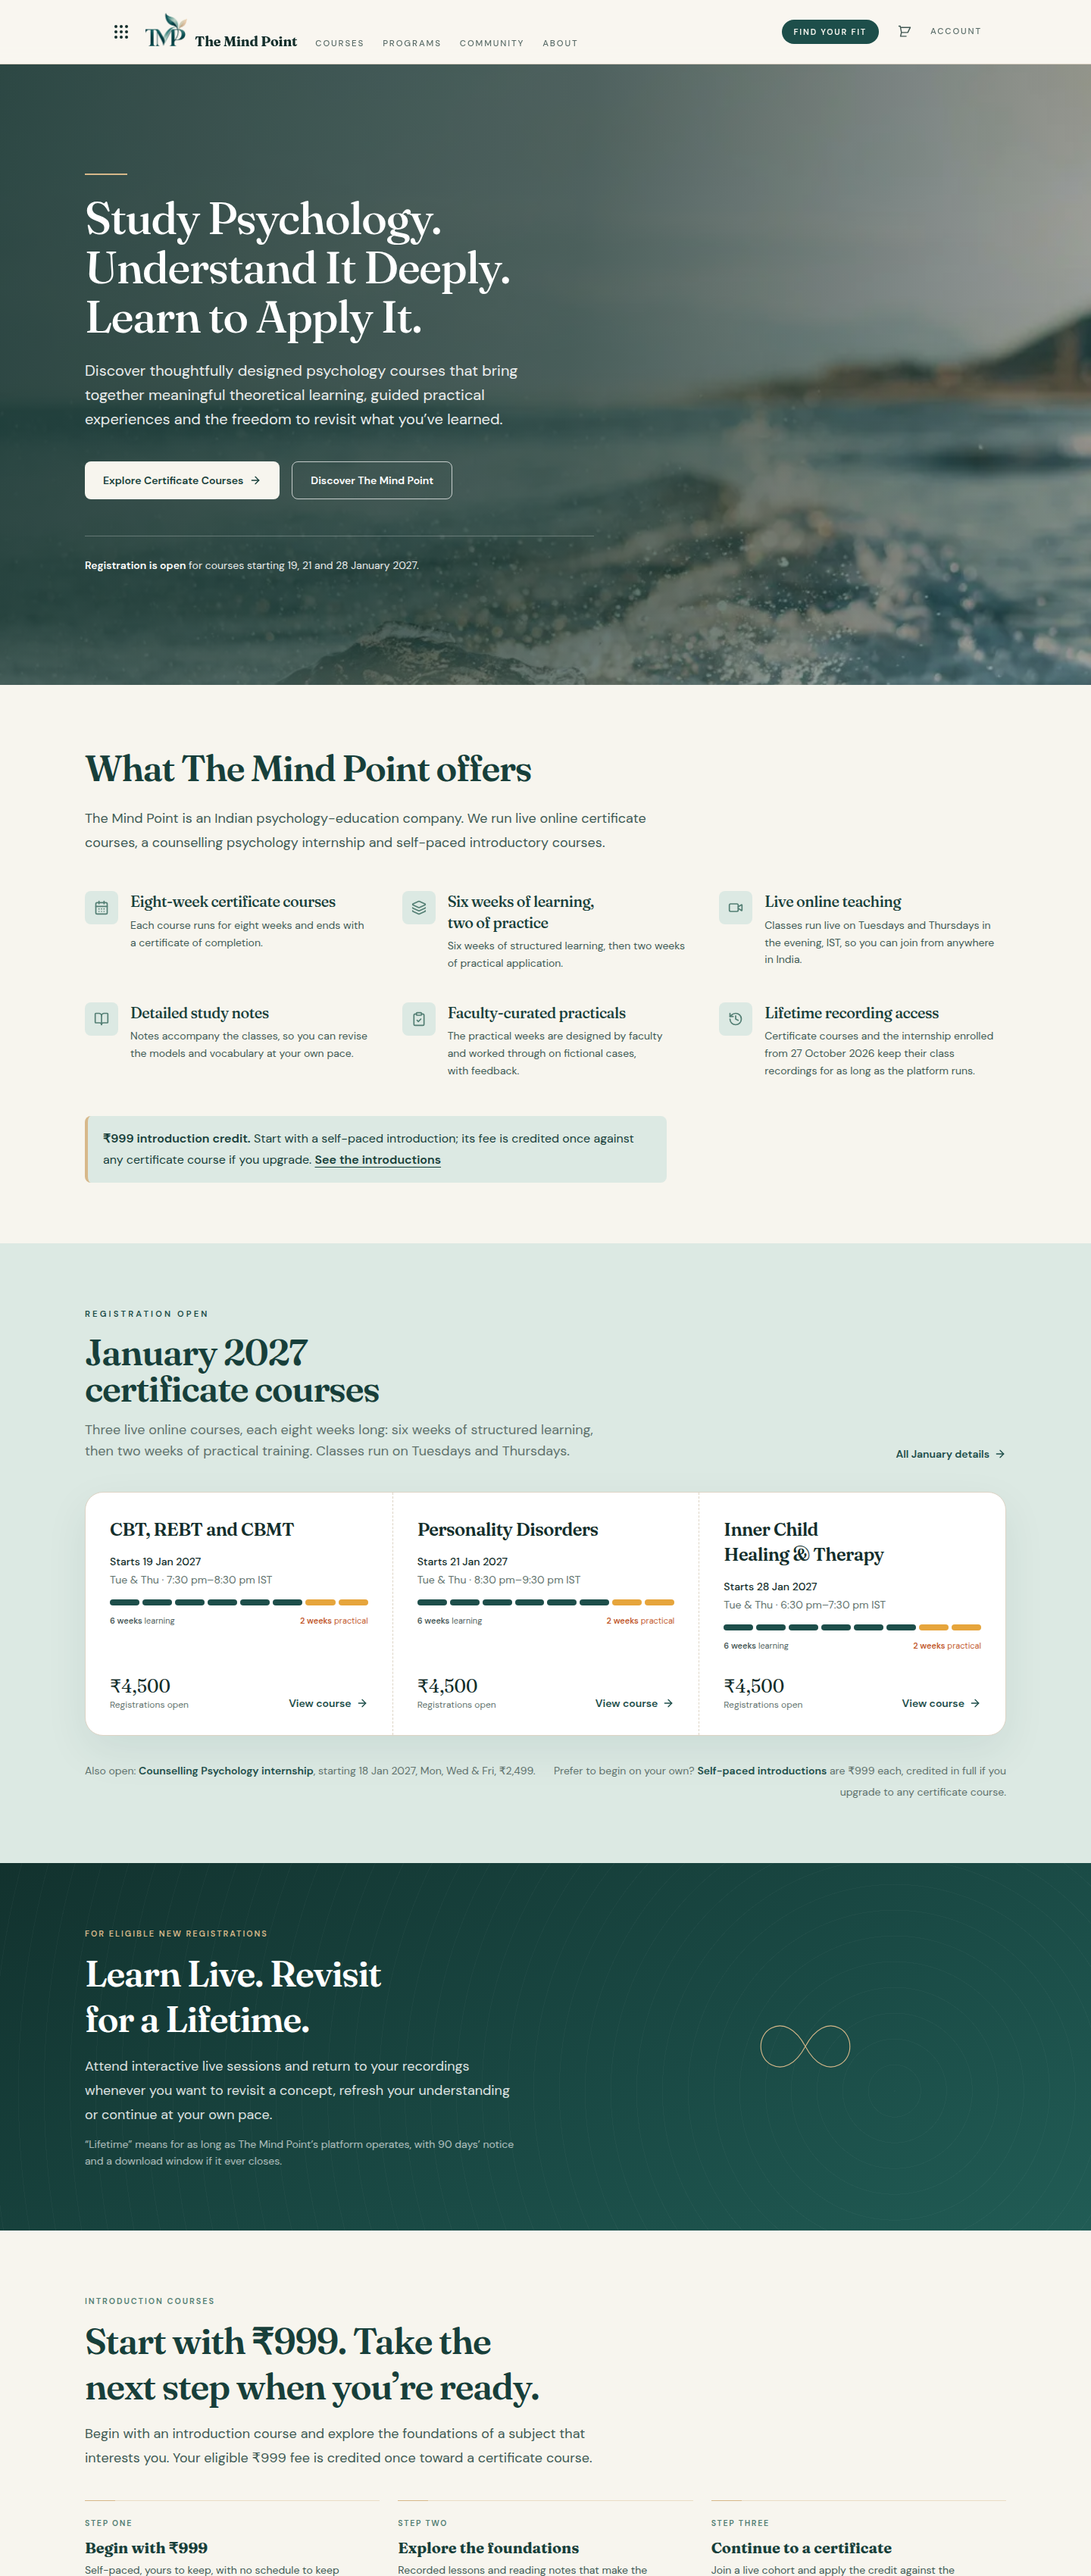
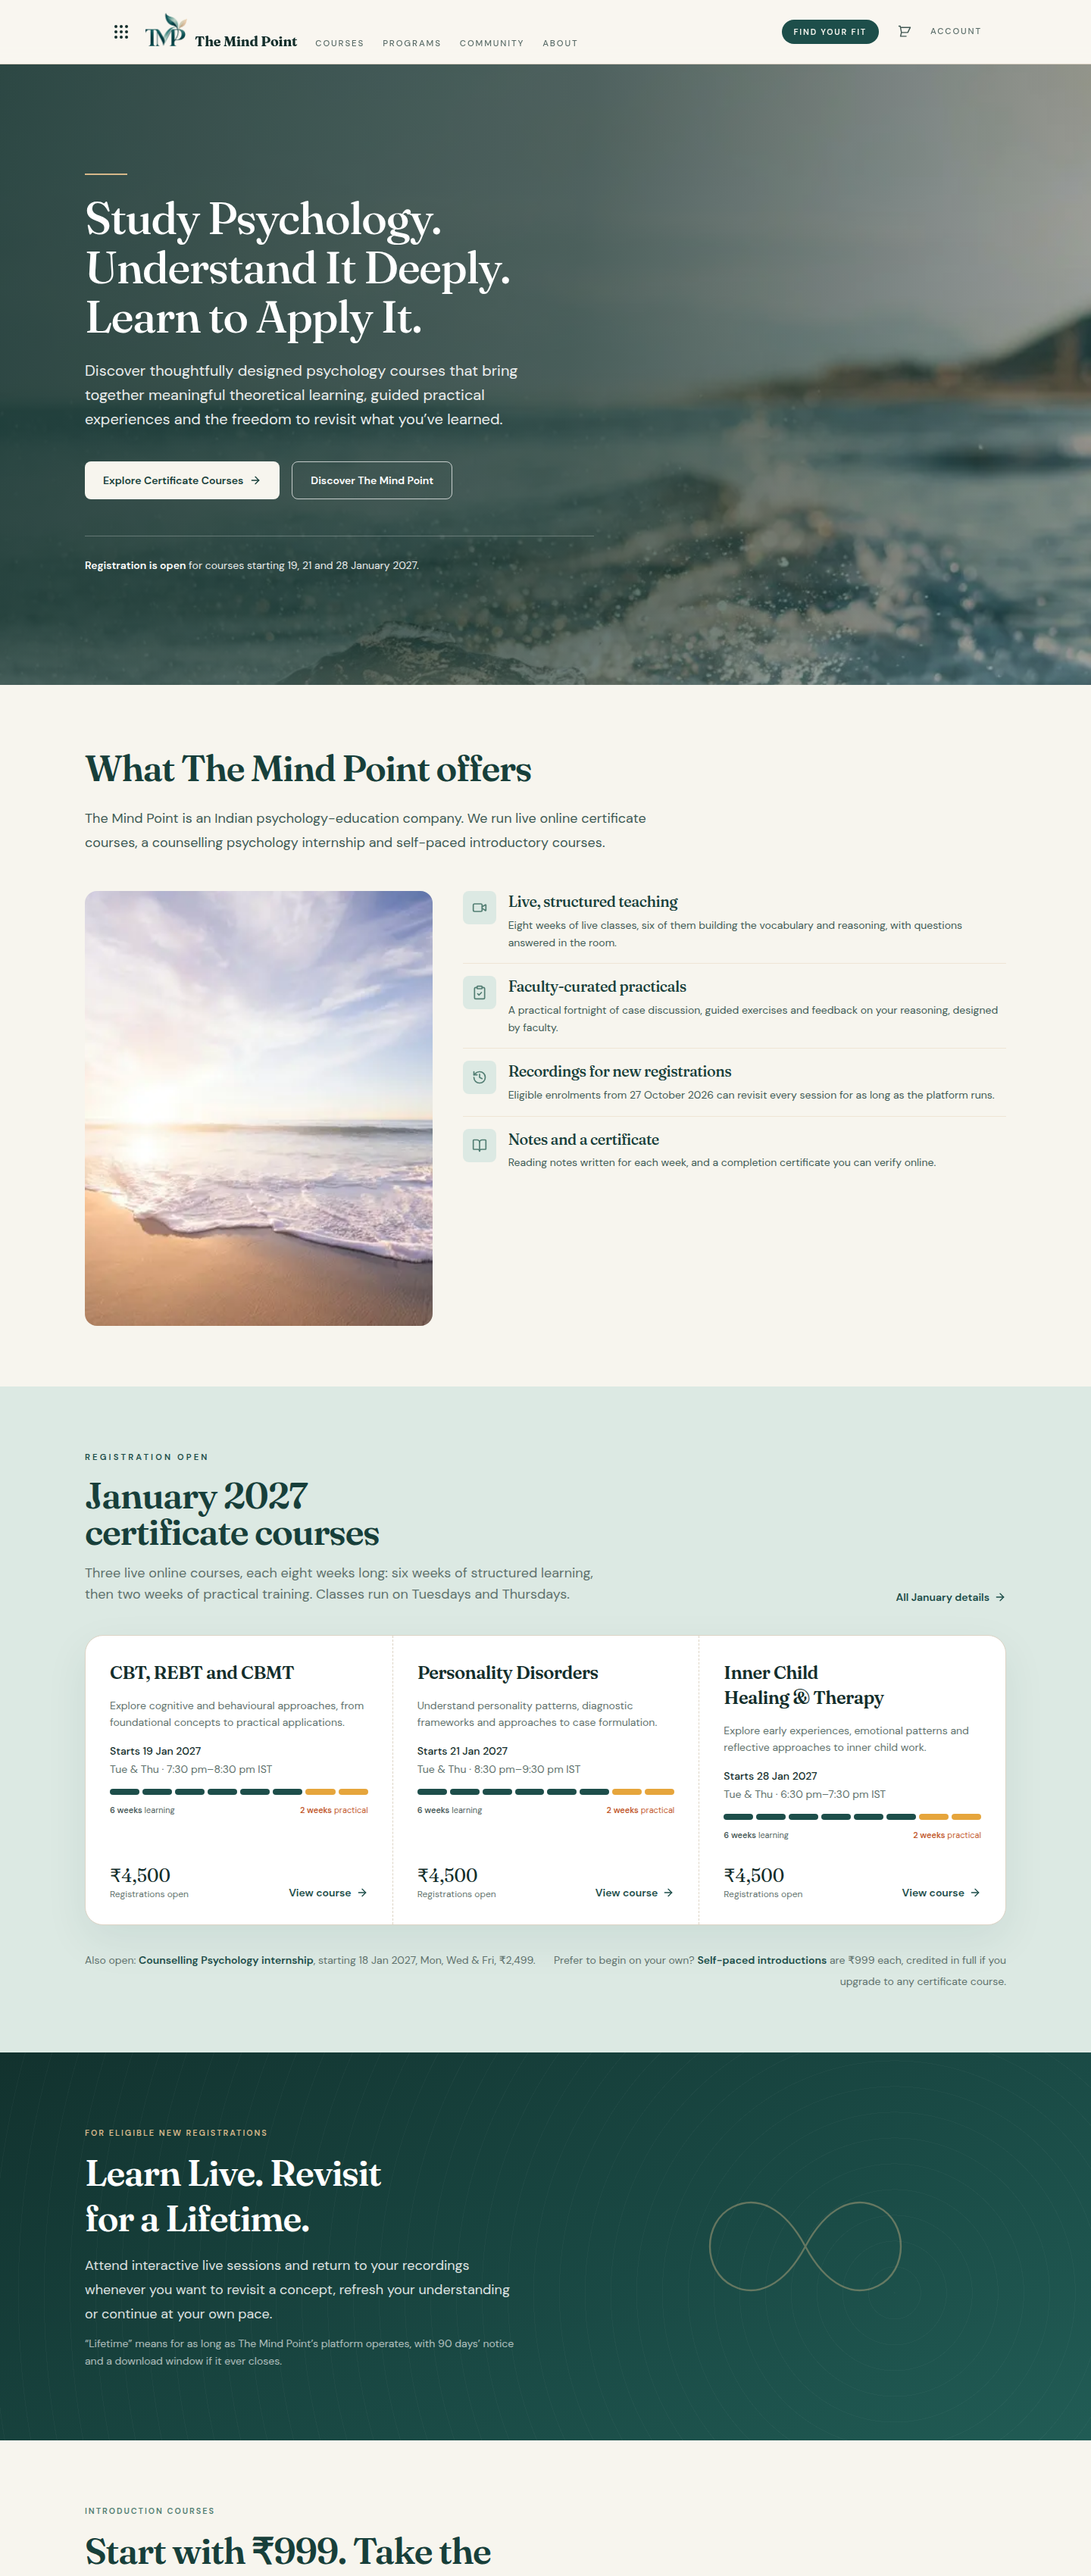
refine(home): keep the benefits panel on palette
The sunset photograph introduced a warm orange that fought the teal and ivory
system. The panel now uses the deep-teal ground, a faint ripple texture and the
approved emblem, so the asymmetric block belongs to the same palette.

diff --git a/components/landing/CoastalHome.tsx b/components/landing/CoastalHome.tsx
@@ -138,13 +138,17 @@ export default function CoastalHome({
             </p>
           </div>
           <div className="mt-12 grid items-start gap-10 lg:grid-cols-[0.78fr_1.22fr]">
-            <div className="relative aspect-[4/5] overflow-hidden rounded-2xl">
+            <div className="bg-section-deep relative flex aspect-[4/5] items-center justify-center overflow-hidden rounded-2xl">
+              <div
+                aria-hidden="true"
+                className="absolute inset-0 opacity-25 [background-image:repeating-radial-gradient(circle_at_30%_20%,rgba(255,255,255,0.22)_0_1px,transparent_1px_40px)]"
+              />
               <Image
-                src="/coastal/calm.jpg"
+                src="/brand/the-mind-point-mark.png"
                 alt=""
-                fill
-                sizes="(min-width: 1024px) 34vw, 100vw"
-                className="object-cover"
+                width={220}
+                height={220}
+                className="relative h-40 w-40 opacity-90"
               />
             </div>
             <ul className="grid gap-0">
